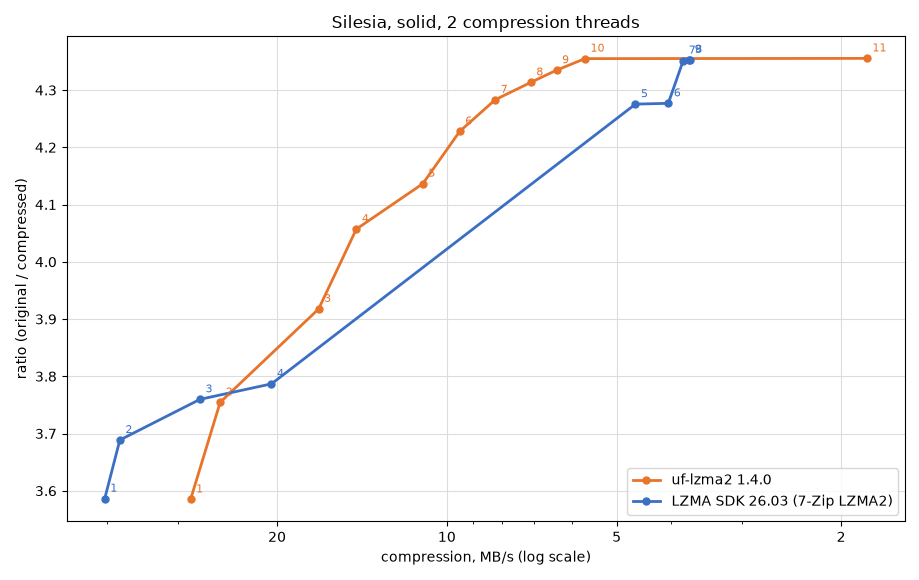
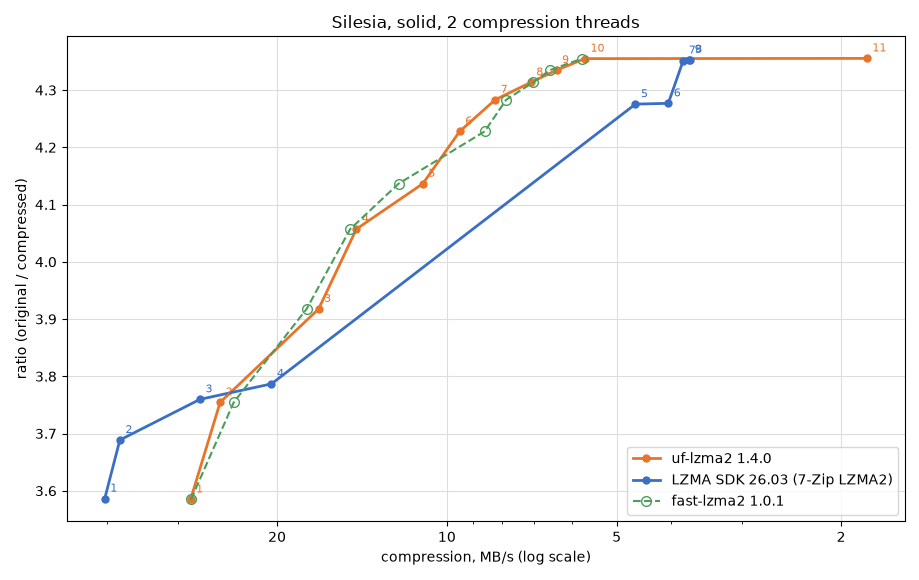
Graph: add fast-lzma2 1.0.1, measured in the same run conditions
Same bytes as uf-lzma2 at levels 1-10, so the two lines share every
ratio; speeds differ by up to 11% either way, which is noise. It is
drawn dashed with hollow markers (plot_curve.py ':dashed') to stay
visible where it overlaps.

diff --git a/bench/plot_curve.py b/bench/plot_curve.py
@@ -3,6 +3,9 @@
 
     python3 bench/plot_curve.py out.png "title" label1=run1.tsv label2=run2.tsv ...
 
+Append ":dashed" to a series (label=run.tsv:dashed) to draw it with a dashed line
+and hollow markers, so that it stays visible where it overlaps another.
+
 Each TSV is what bench/curve (or a tool writing the same columns) prints: one row
 per level with at least the columns mode, level, ratio (compressed/original) and
 c_MBps. The x axis is compression speed on a log scale, fastest on the left, as
@@ -40,14 +43,21 @@ def main():
     fig, ax = plt.subplots(figsize=(9.2, 5.8), dpi=100)
     for i, spec in enumerate(series):
         label, path = spec.split("=", 1)
+        dashed = path.endswith(":dashed")
+        if dashed:
+            path = path[:-len(":dashed")]
         rows = read_tsv(path)
         x = [float(r["c_MBps"]) for r in rows]
         y = [1.0 / float(r["ratio"]) for r in rows]
         color = colors[i % len(colors)]
-        ax.plot(x, y, "-o", color=color, label=label, linewidth=2, markersize=5)
-        for r, xi, yi in zip(rows, x, y):
-            ax.annotate(r["level"], (xi, yi), textcoords="offset points", xytext=(4, 5),
-                        fontsize=8, color=color)
+        if dashed:
+            ax.plot(x, y, "--o", color=color, label=label, linewidth=1.5, markersize=7,
+                    markerfacecolor="none", zorder=3)
+        else:
+            ax.plot(x, y, "-o", color=color, label=label, linewidth=2, markersize=5, zorder=2)
+            for r, xi, yi in zip(rows, x, y):
+                ax.annotate(r["level"], (xi, yi), textcoords="offset points", xytext=(4, 5),
+                            fontsize=8, color=color)
 
     ax.set_xscale("log")
     ax.invert_xaxis()

diff --git a/README.md b/README.md
@@ -43,7 +43,12 @@ smallest output of the table at the decode speed of xz. More in [Benchmarks](htt
 
 Silesia as one solid stream, the way an archiver compresses it, on two compression threads, best of
 three, 2x Xeon E5-2697A v4. The other line is the LZMA2 encoder of LZMA SDK 26.03, which is 7-Zip's,
-with its two threads split as 7-Zip's `-mmt2` splits them. Top left is better.
+with its two threads split as 7-Zip's `-mmt2` splits them; the dashed line is fast-lzma2 1.0.1, the
+library this fork started from. Top left is better.
+
+uf-lzma2 and fast-lzma2 write the same bytes at every level from 1 to 10, so their lines share every
+ratio; the speeds differ by up to 11% either way from level to level, which is measurement noise, not
+a change in the encoder. This fork's gains are in decompression and in level 11, not on this graph.
 
 The SDK wins the fastest levels with its hash-chain match finders. Past them, uf-lzma2 gives more ratio
 at every speed: SDK level 5 (23.39%) runs at 4.6 MB/s and uf-lzma2 level 7 (23.35%) at 8.2 MB/s; SDK
